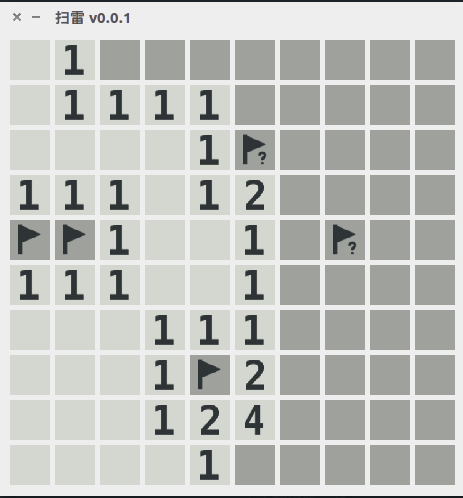
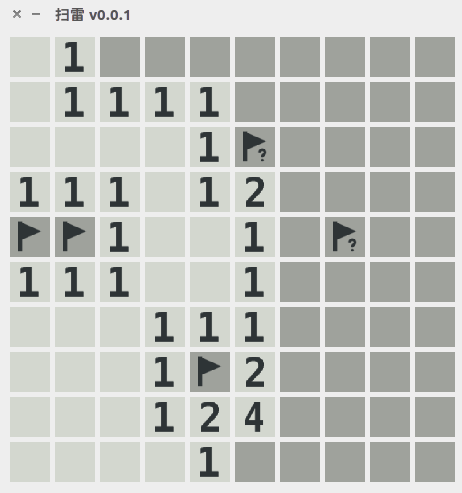
修正图片

diff --git a/README.md b/README.md
@@ -4,9 +4,9 @@
 
 ## 运行截图
 
-![marks](README.assets/makrs.png)
+![marks](README.assets/marks.png)
 
-![lose](README.assets/makrs_lose.png)
+![lose](README.assets/marks_lose.png)
 
 ![win](README.assets/win.png)
 
